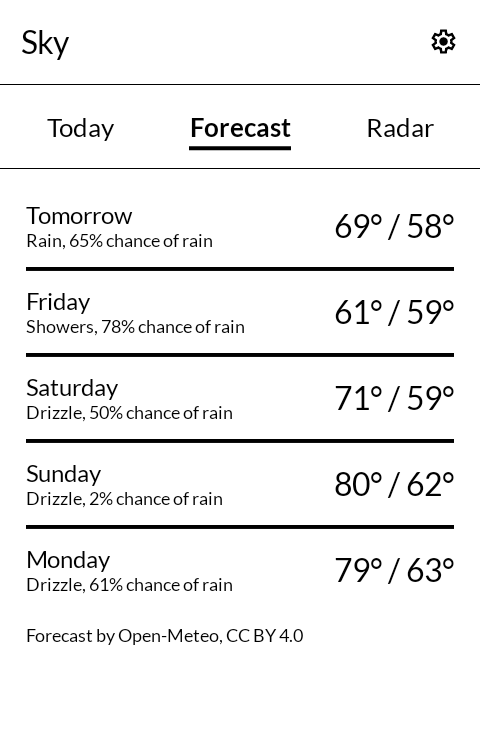
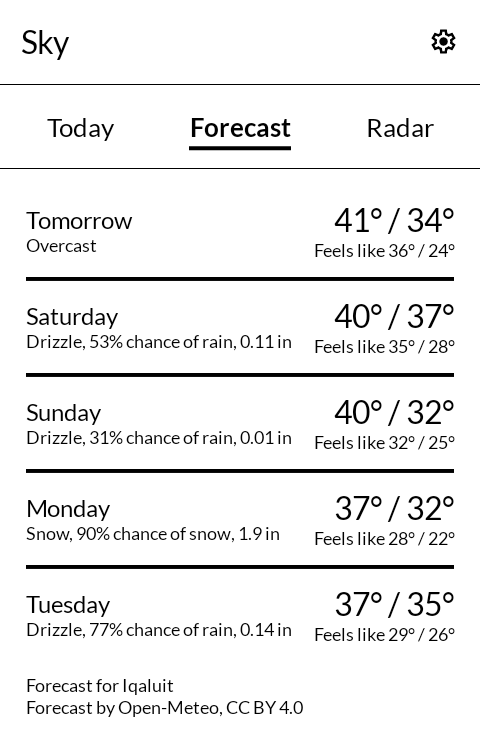
Screenshots from 0.7.0: today, the forecast, a day, the radar

Changed region(s): [[0.0312, 0.2753, 0.9688, 0.8564], [0.0312, 0.887, 0.625, 0.9481]]

diff --git a/README.md b/README.md
@@ -13,8 +13,8 @@ the station and the forecast are added here.
 
 | | |
 |---|---|
-| ![Today: the station, and today's forecast](screenshots/1-station.png) | ![Forecast: the five days after today](screenshots/2-forecast.png) |
-| ![Radar, with the state lines](screenshots/3-radar.png) | ![Where your position goes](screenshots/4-about.png) |
+| ![Today: now, today, and the next twelve hours](screenshots/1-today.png) | ![Forecast: the five days after today, and what they feel like](screenshots/2-forecast.png) |
+| ![A day of its own: its hours and its snow](screenshots/3-day.png) | ![Radar, with the state lines](screenshots/4-radar.png) |
 
 ## What it shows
 
